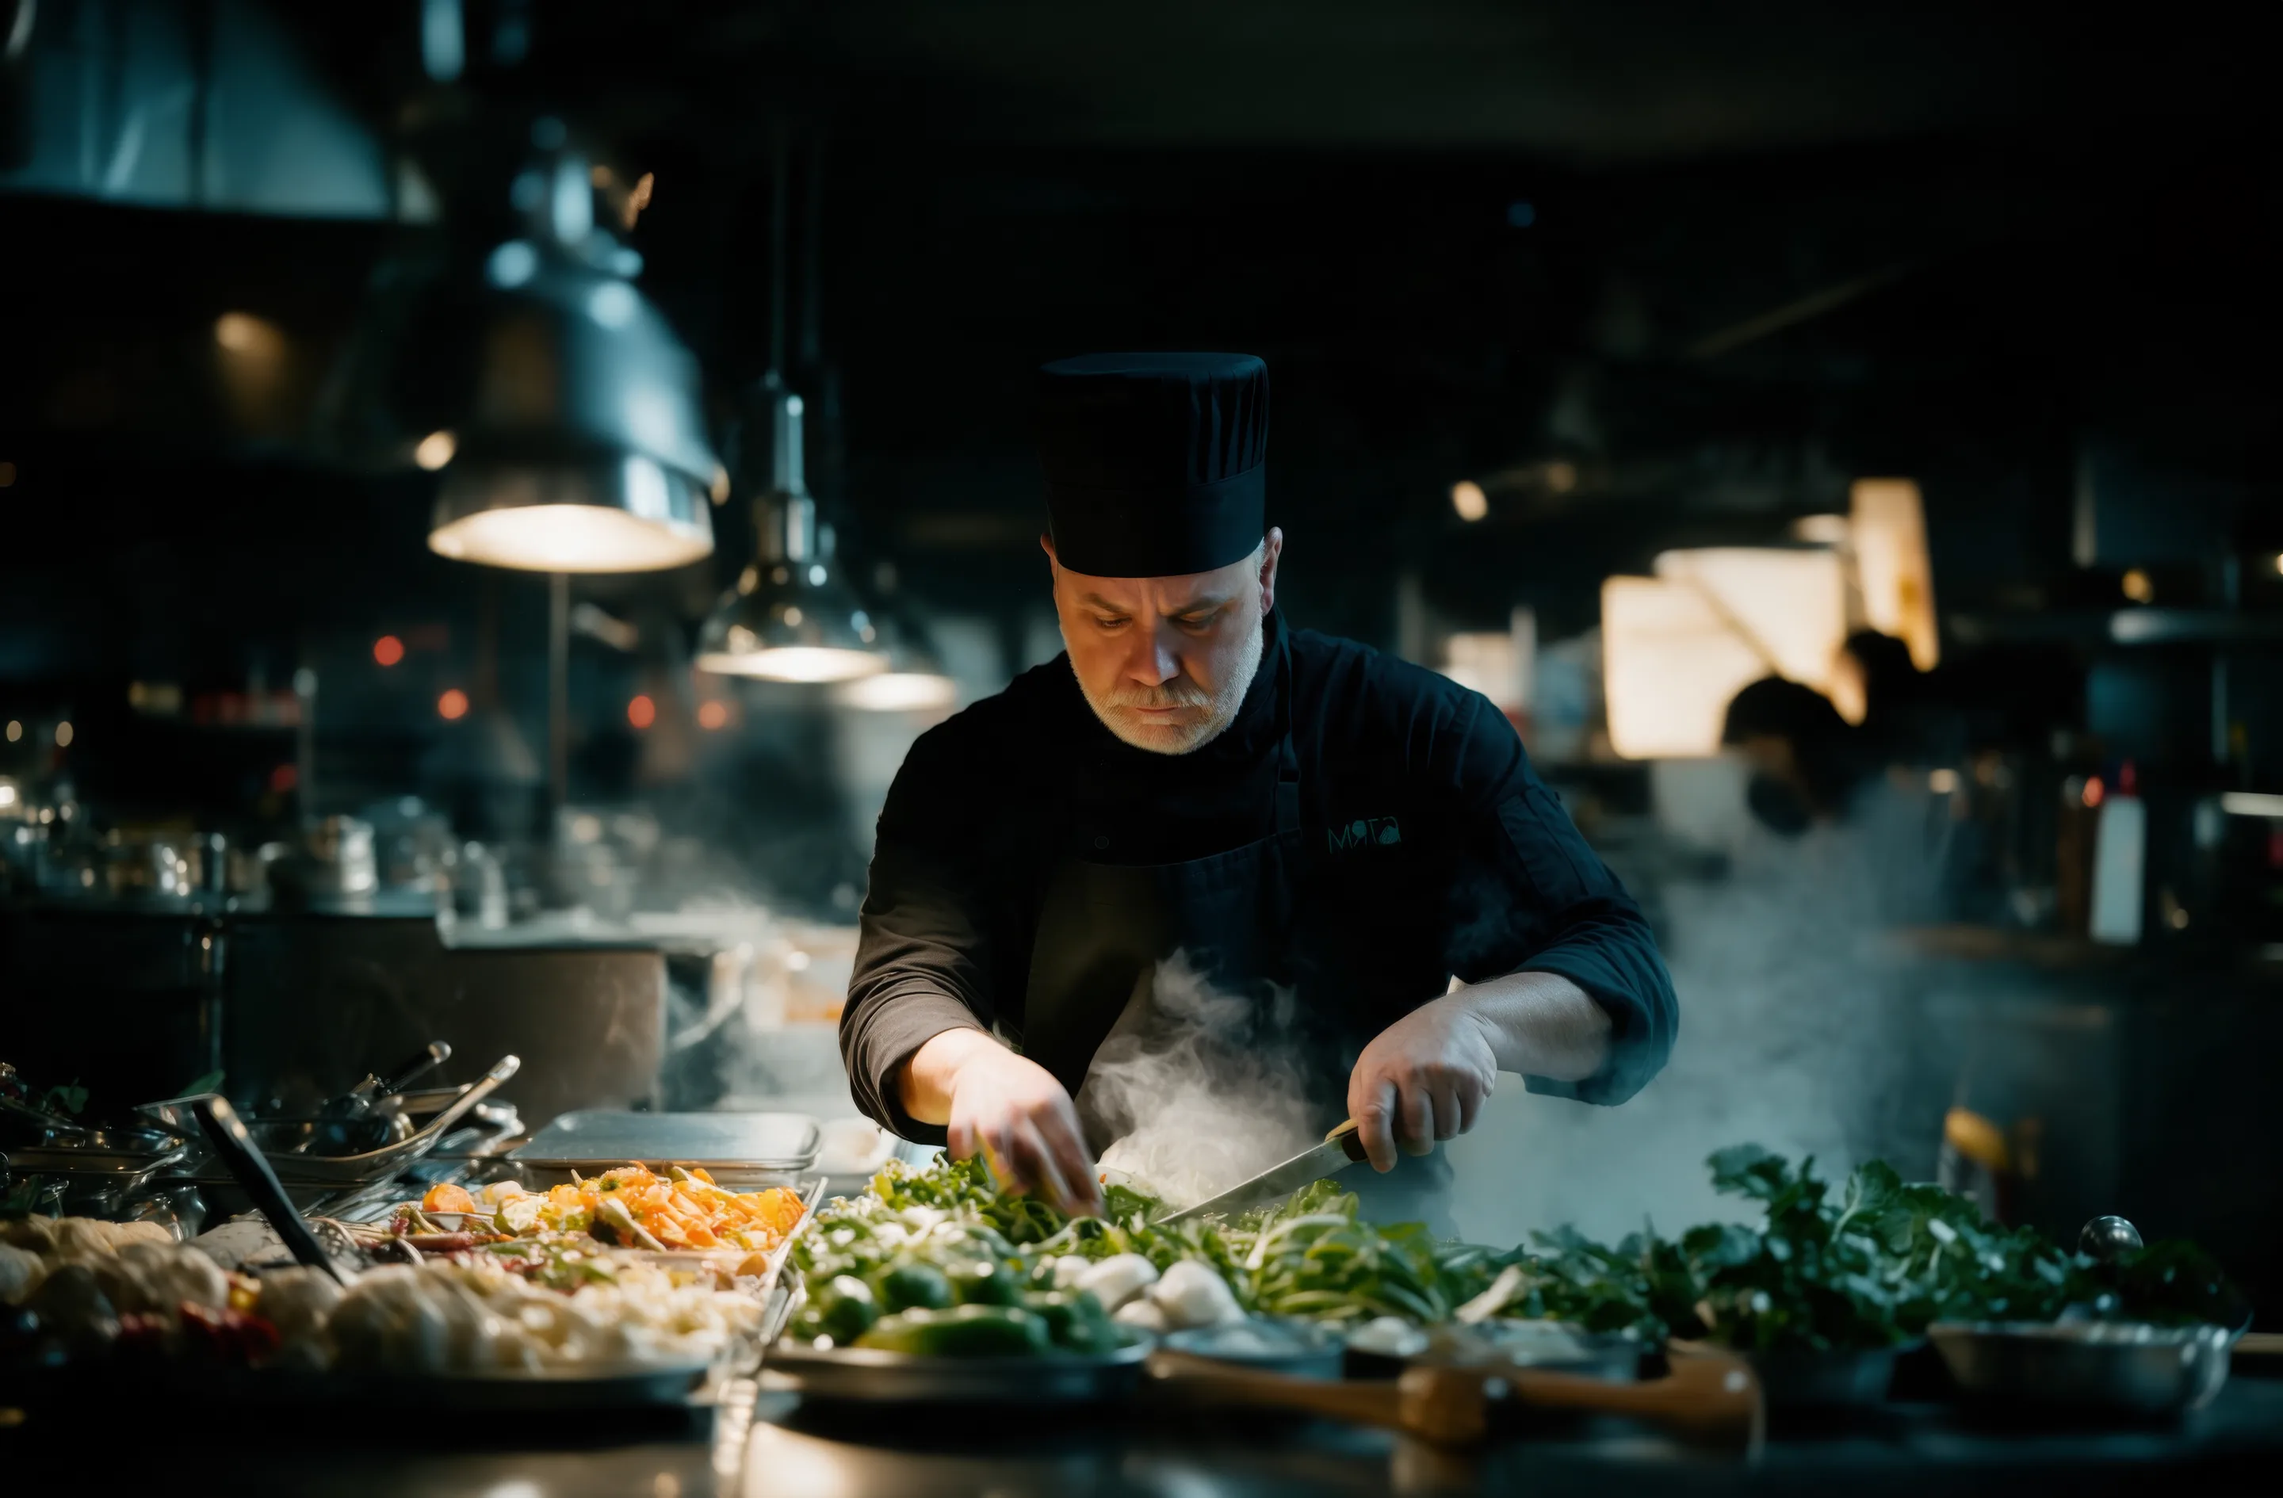
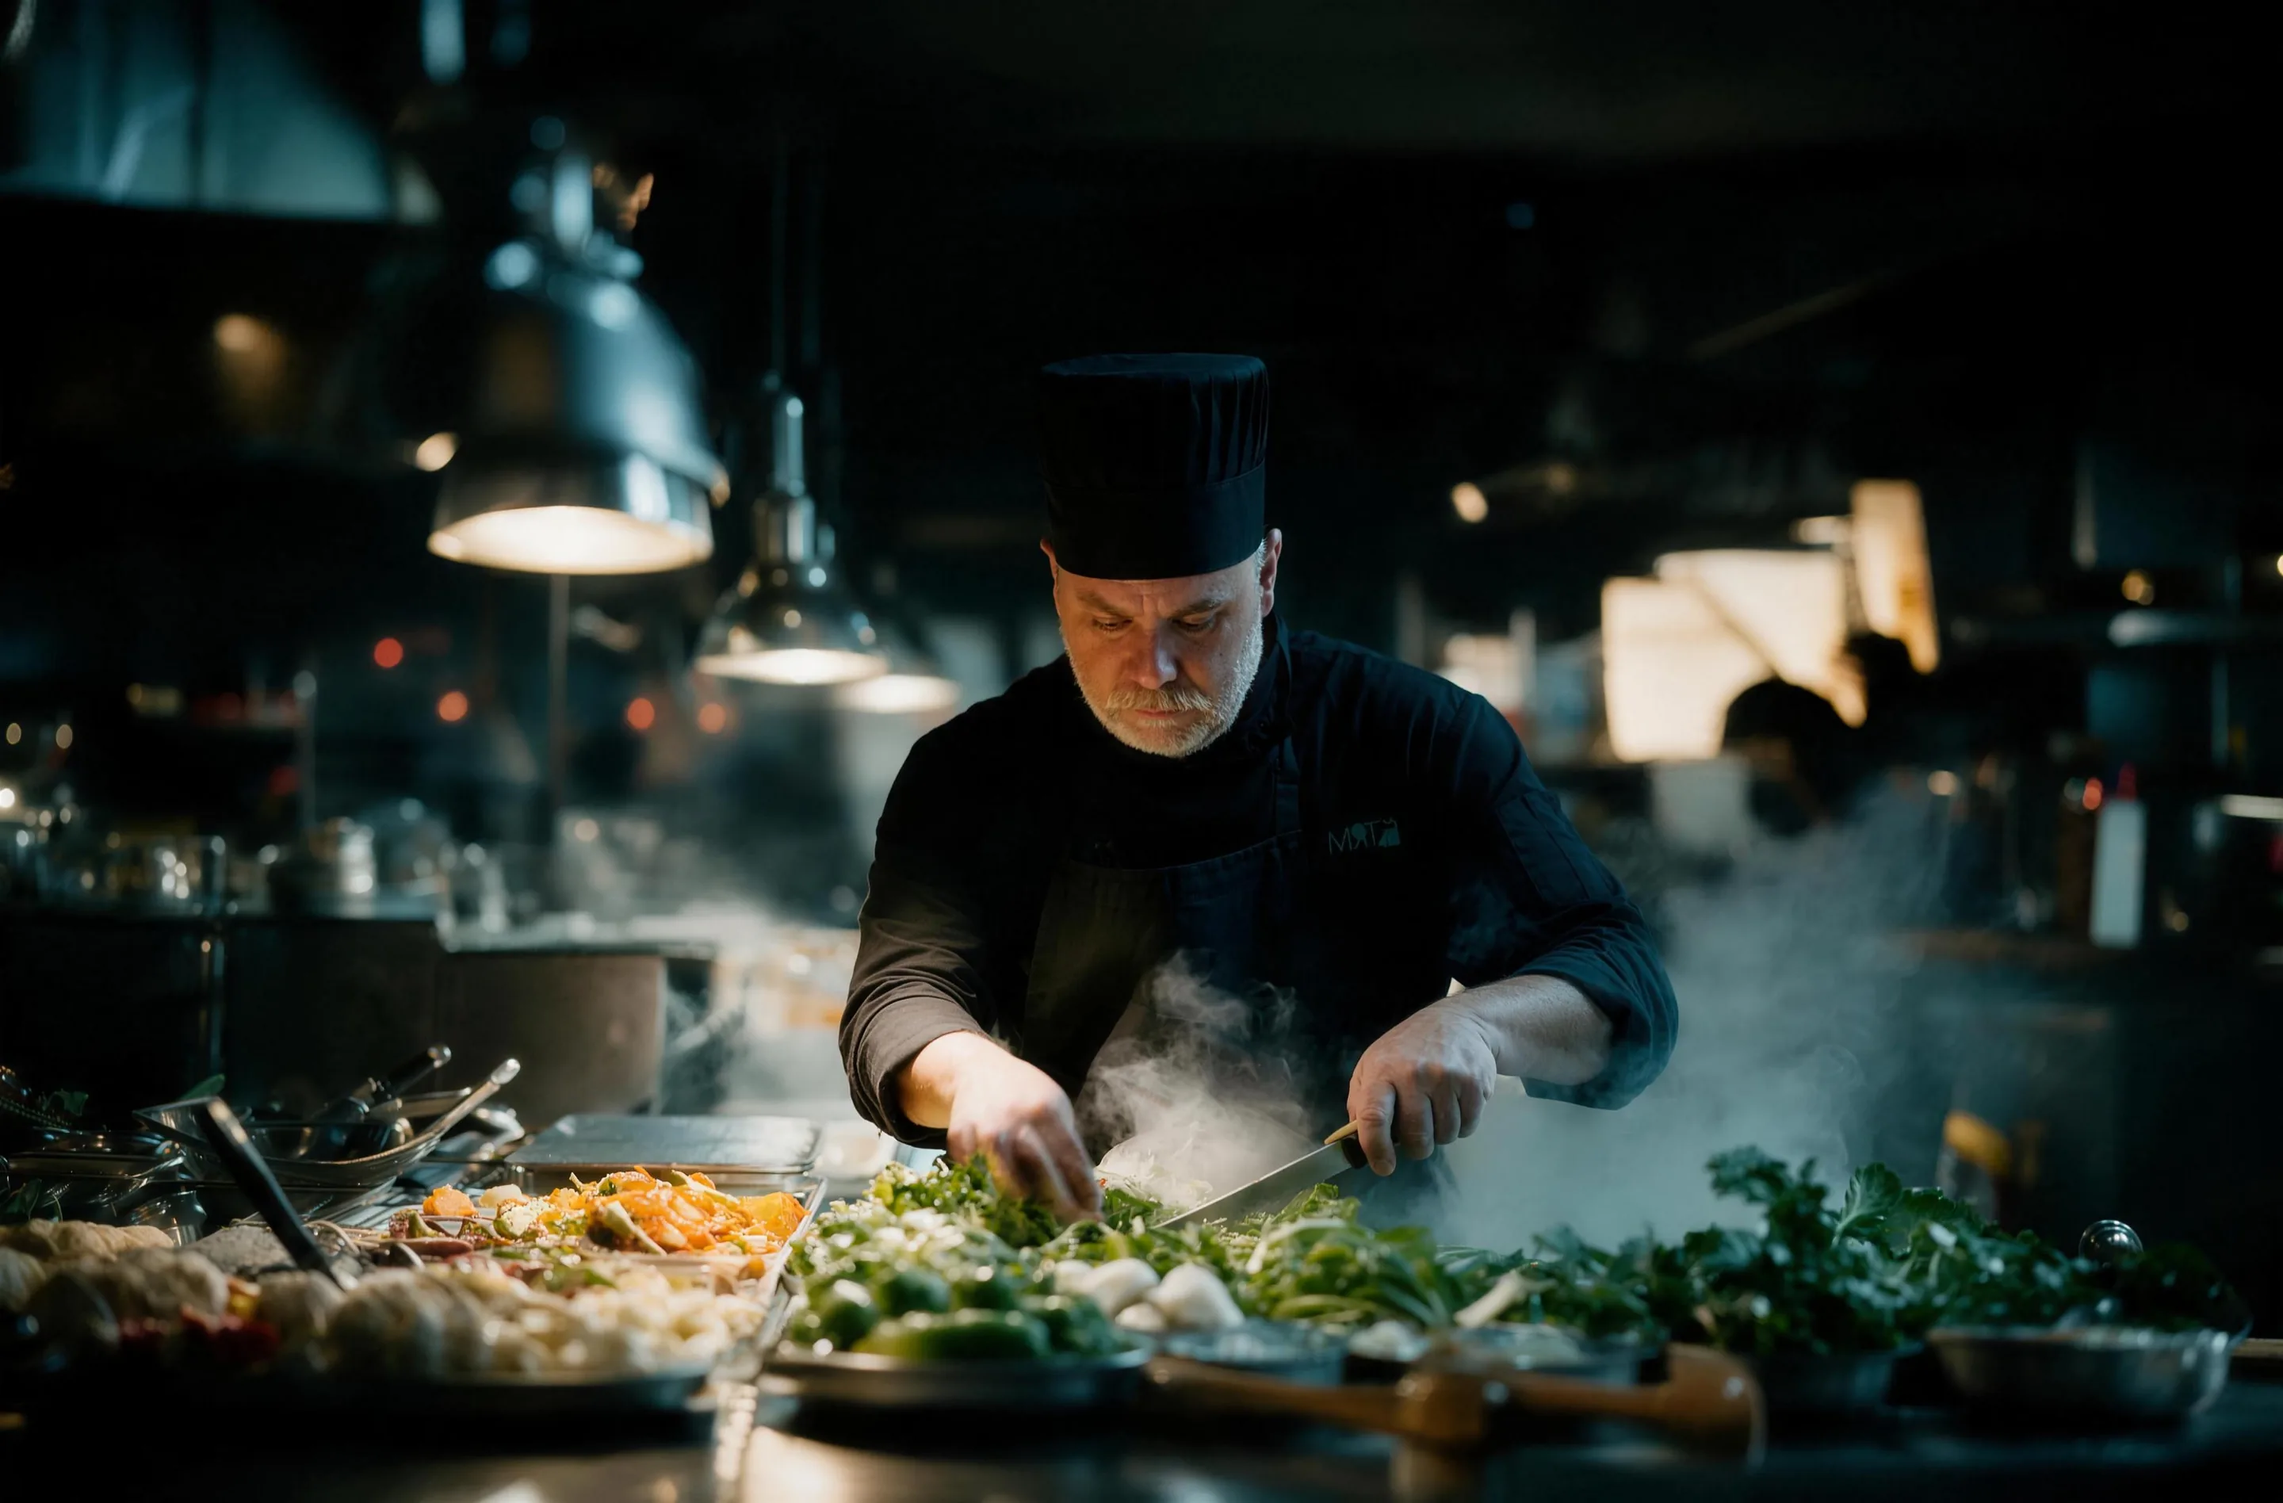
Оставить одно фото первого экрана — «любимка 4к2»; убрать переключатель
- файлы «любимки 4к2» стали основными hero-*; первый вариант и его слой пара удалены
- переключатель, запоминание выбора и ?photo= убраны, код снова на одно фото

diff --git a/steam-texture.js b/steam-texture.js
@@ -1,8 +1,7 @@
-/* Слои пара, выделенные из самих фотографий первого экрана: яркость пара над фоном.
-   1 — Повар/Любимка 4к.png, 2 — Повар/любимка 4к2.png. Встроены как data URI,
-   чтобы WebGL мог читать их и при открытии файла с диска.
-   x, y, w, h — прямоугольник слоя в пикселях фото в базе ширины 2048; photoH — высота фото в этой базе. */
+/* Слой пара, выделенный из самой фотографии первого экрана (Повар/любимка 4к2.png): яркость пара над фоном.
+   Встроен как data URI, чтобы WebGL мог читать его и при открытии файла с диска.
+   x, y, w, h — прямоугольник слоя в пикселях фото в базе ширины 2048; photoH — высота фото в этой базе;
+   dy — сдвиг кадра относительно исходной разметки копий пара. */
 window.MYATA_STEAM_TEXTURES = {
[3 lines of base64/hex data omitted]
 };

diff --git a/main.js b/main.js
@@ -5,38 +5,11 @@
   const hero = document.querySelector(".hero");
   const media = document.querySelector("[data-hero-media]");
 
-  /* ---------- Варианты фото первого экрана ----------
-     1 — Повар/Любимка 4к.png, 2 — Повар/любимка 4к2.png (тот же кадр, другая обработка).
-     Выбор запоминается и задаётся ссылкой ?photo=2. Размеры — в базе ширины 2048 px. */
-  const VARIANTS = {
-    "1": { prefix: "hero",  h: 1344 },
-    "2": { prefix: "hero2", h: 1348.5 },
-  };
-  const srcsetOf = (p) => `assets/${p}-1200.webp 1200w, assets/${p}.webp 1600w, assets/${p}-2048.webp 2048w, assets/${p}-2880.webp 2880w`;
-  const store = {
-    get() { try { return localStorage.getItem("myata-photo"); } catch (e) { return null; } },
-    set(v) { try { localStorage.setItem("myata-photo", v); } catch (e) { /* приватный режим */ } },
-  };
-  const fromUrl = new URLSearchParams(location.search).get("photo");
-  let photo = VARIANTS[fromUrl] ? fromUrl : VARIANTS[store.get()] ? store.get() : "1";
-
-  function setPhotoSources(key) {
-    const v = VARIANTS[key];
-    const source = media && media.querySelector("source");
-    const img = media && media.querySelector("img");
-    if (source) source.srcset = srcsetOf(v.prefix);
-    if (img) img.src = `assets/${v.prefix}.jpg`;
-  }
-
-  if (media) {
-    media.dataset.photo = photo;
-    if (photo !== "1") setPhotoSources(photo);
-  }
-
   /* ---------- Фото как cover, но с фокусом на шефе ----------
-     Фото масштабируем как в макете (узел 45:208): чуть шире кадра и на 12% выше него,
-     и держим точку FOCUS (грудь шефа, голова по центру) в нужном месте кадра на любом экране. */
-  const SRC = { w: 2048, h: VARIANTS[photo].h };
+     Фото (Повар/любимка 4к2.png, в базе ширины 2048 — 2048×1348,5) масштабируем как в макете
+     (узел 45:208): чуть шире кадра и на 12% выше него, и держим точку FOCUS (грудь шефа,
+     голова по центру) в нужном месте кадра на любом экране. */
+  const SRC = { w: 2048, h: 1348.5 };
   const FOCUS = { u: 1043 / 2048, v: 720 / 1344 };
 
   function placeMedia() {
@@ -139,44 +112,6 @@
     void root.offsetWidth;
     root.classList.add("is-loaded");
   });
-
-  /* ---------- Еле заметный переключатель фото ----------
-     Фото и пар гаснут, меняются и проявляются снова — без перезагрузки страницы. */
-  const switcher = document.querySelector("[data-photo-switch]");
-  if (switcher && media) {
-    const buttons = [...switcher.querySelectorAll("[data-photo]")];
-    const mark = () => buttons.forEach((b) => b.setAttribute("aria-pressed", String(b.dataset.photo === photo)));
-    mark();
-    let busy = false;
-    switcher.addEventListener("click", async (e) => {
-      const btn = e.target.closest("[data-photo]");
-      if (!btn || busy || btn.dataset.photo === photo) return;
-      busy = true;
-      photo = btn.dataset.photo;
-      store.set(photo);
-      mark();
-      media.classList.add("is-swapping");
-      await wait(350);
-      setPhotoSources(photo);
-      SRC.h = VARIANTS[photo].h;
-      media.dataset.photo = photo;
-      const img = media.querySelector("img");
-      const imgReady = img.complete && img.naturalWidth
-        ? Promise.resolve()
-        : new Promise((r) => { img.addEventListener("load", r, { once: true }); img.addEventListener("error", r, { once: true }); });
-      // ждём новое фото и его пар, но не дольше 1,5 с — смена не должна зависать
-      await Promise.race([
-        Promise.all([
-          imgReady,
-          window.MYATA_STEAM ? window.MYATA_STEAM.setVariant(photo).catch(() => {}) : Promise.resolve(),
-        ]),
-        wait(1500),
-      ]);
-      placeMedia();
-      media.classList.remove("is-swapping");
-      busy = false;
-    });
-  }
 
   /* ---------- Мобильное меню ---------- */
   const burger = document.querySelector("[data-burger]");

diff --git a/steam.js b/steam.js
@@ -6,8 +6,7 @@
      Шейдер накладывает несколько копий этого слоя (screen): одна «дышит» на месте и уплотняет
      пар у живота, другие продолжают его вверх по фартуку и едва дымят у краёв рукавов.
      Движение почти незаметное: подъём ~0,6 px/с и медленное колыхание.
-     Координаты — в пикселях фото в базе ширины 2048 px. Вариантов фото два (переключатель
-     на первом экране), у каждого свой слой пара; копии стоят по общему силуэту. */
+     Координаты — в пикселях фото в базе ширины 2048 px (Повар/любимка 4к2.png). */
 
   const canvas = document.querySelector("[data-steam]");
   const media = document.querySelector("[data-hero-media]");
@@ -18,8 +17,7 @@
   // фото и пар появляются одновременно, без «догоняющего» пара
   const announce = (ok) => media.dispatchEvent(new CustomEvent(ok ? "steam:ready" : "steam:none"));
 
-  let variant = media.dataset.photo && TEXS[media.dataset.photo] ? media.dataset.photo : Object.keys(TEXS)[0];
-  let TEX = TEXS[variant];
+  const TEX = TEXS[Object.keys(TEXS)[0]];
   const gl = TEX && canvas.getContext("webgl", { alpha: true, premultipliedAlpha: true, antialias: false, depth: false, stencil: false, powerPreference: "low-power" });
   if (!gl) { announce(false); return; }
 
@@ -126,7 +124,7 @@
   let program, uRes, uTime, tex;
   let texImage = null;
 
-  // параметры, которые зависят от варианта фото: слой пара, высота кадра, сдвиг копий
+  // параметры слоя пара: текстура, высота кадра, сдвиг копий
   function applyVariant() {
     gl.bindTexture(gl.TEXTURE_2D, tex);
     gl.texImage2D(gl.TEXTURE_2D, 0, gl.RGB, gl.RGB, gl.UNSIGNED_BYTE, texImage);
@@ -264,20 +262,6 @@
     img.onerror = reject;
     img.src = src;
   });
-
-  // переключение варианта фото на лету (вызывает main.js)
-  window.MYATA_STEAM = {
-    async setVariant(key) {
-      if (!TEXS[key] || key === variant || !program) return;
-      const img = await loadTexture(TEXS[key].src);
-      variant = key;
-      TEX = TEXS[key];
-      texImage = img;
-      applyVariant();
-      resize();
-      draw(performance.now());
-    },
-  };
 
   loadTexture(TEX.src).then((img) => { texImage = img; boot(); }, () => announce(false));
 })();

diff --git a/index.html b/index.html
@@ -10,7 +10,7 @@
   <link rel="preconnect" href="https://fonts.googleapis.com">
   <link rel="preconnect" href="https://fonts.gstatic.com" crossorigin>
   <link rel="stylesheet" href="https://fonts.googleapis.com/css2?family=Geologica:wght@300;400;500&family=Golos+Text:wght@400;500&display=swap">
-  <link rel="stylesheet" href="styles.css?v=20261023202351">
+  <link rel="stylesheet" href="styles.css?v=20261023204007">
 </head>
 <body>
   <svg width="0" height="0" style="position:absolute" aria-hidden="true">
@@ -76,11 +76,6 @@
         <span></span><span></span>
       </button>
     </header>
-
-    <div class="photo-switch" role="group" aria-label="Вариант фото первого экрана" data-photo-switch>
-      <button type="button" data-photo="1" aria-label="Фото 1" aria-pressed="true"></button>
-      <button type="button" data-photo="2" aria-label="Фото 2" aria-pressed="false"></button>
-    </div>
 
     <div class="hero__body">
       <h1 class="hero__title">
@@ -148,8 +143,8 @@
   </section>
 
 
-  <script src="main.js?v=20261023202351" defer></script>
-  <script src="steam-texture.js?v=20261023202351" defer></script>
-  <script src="steam.js?v=20261023202351" defer></script>
+  <script src="main.js?v=20261023204007" defer></script>
+  <script src="steam-texture.js?v=20261023204007" defer></script>
+  <script src="steam.js?v=20261023204007" defer></script>
 </body>
 </html>

diff --git a/styles.css b/styles.css
@@ -94,43 +94,6 @@ img, svg, canvas { display: block; }
 
 .hero__media.is-placed img { object-fit: fill; }
 
-/* смена варианта фото: фото и пар гаснут вместе и проявляются уже новыми */
-.hero__media { transition: opacity 0.35s ease; }
-.hero__media.is-swapping { opacity: 0; }
-
-/* еле заметный переключатель вариантов фото — две точки у правого края */
-.photo-switch {
-  position: absolute;
-  right: 8px;
-  top: 50%;
-  z-index: 6;
-  display: flex;
-  flex-direction: column;
-  translate: 0 -50%;
-  opacity: 0.28;
-  transition: opacity 0.3s ease;
-}
-.photo-switch:hover,
-.photo-switch:focus-within { opacity: 0.9; }
-.photo-switch button {
-  display: grid;
-  place-items: center;
-  width: 20px;
-  height: 20px;
-  padding: 0;
-  border: 0;
-  background: none;
-  cursor: pointer;
-}
-.photo-switch button::before {
-  content: "";
-  width: 6px;
-  height: 6px;
-  border: 1px solid rgba(255, 255, 255, 0.85);
-  border-radius: 50%;
-  transition: background-color 0.3s ease;
-}
-.photo-switch button[aria-pressed="true"]::before { background: #fff; }
 
 .hero__steam {
   position: absolute;
